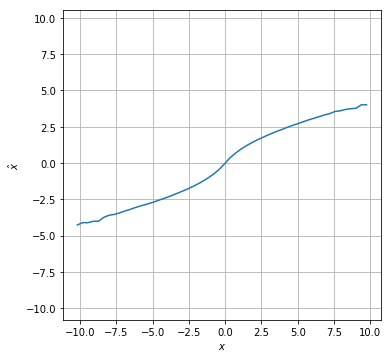
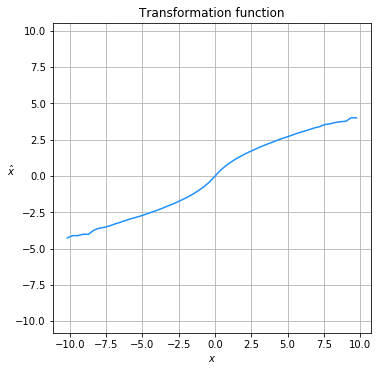
Updated transformation function plot

diff --git a/README.md b/README.md
@@ -35,10 +35,11 @@ cauchy (-0.0040960015181256, 0.6037980352309185)
 ![](examples/pdf_normal.png?raw=true)  
 
 ```python
-plt.plot(scaler.transform_table[:,0], scaler.transform_table[:,1], lw=1.5)
+plt.plot(scaler.transform_table[:,0], scaler.transform_table[:,1], color="dodgerblue")
+plt.title("Transformation function")
 plt.xlabel("$x$")
-plt.ylabel("$\\hat{x}$")
-plt.axis('equal')
+plt.ylabel("$\\hat{x}$", rotation=0)
+plt.axis("equal")
 plt.grid(True)
 plt.show()
 ```
